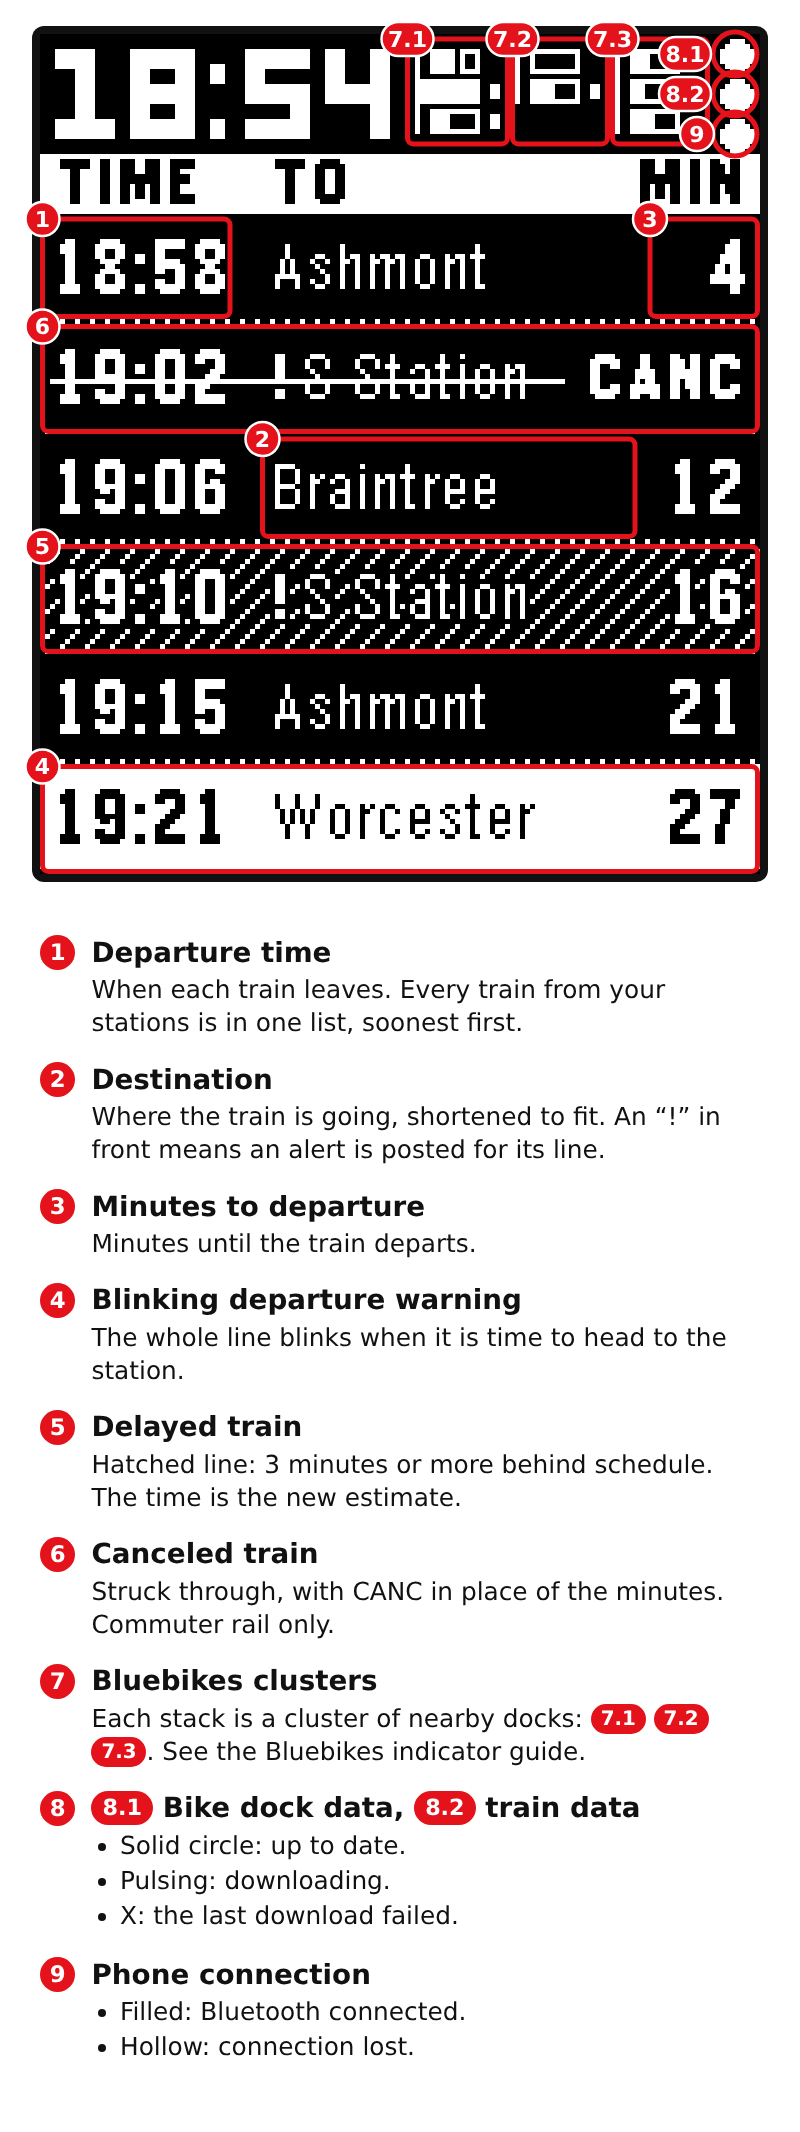
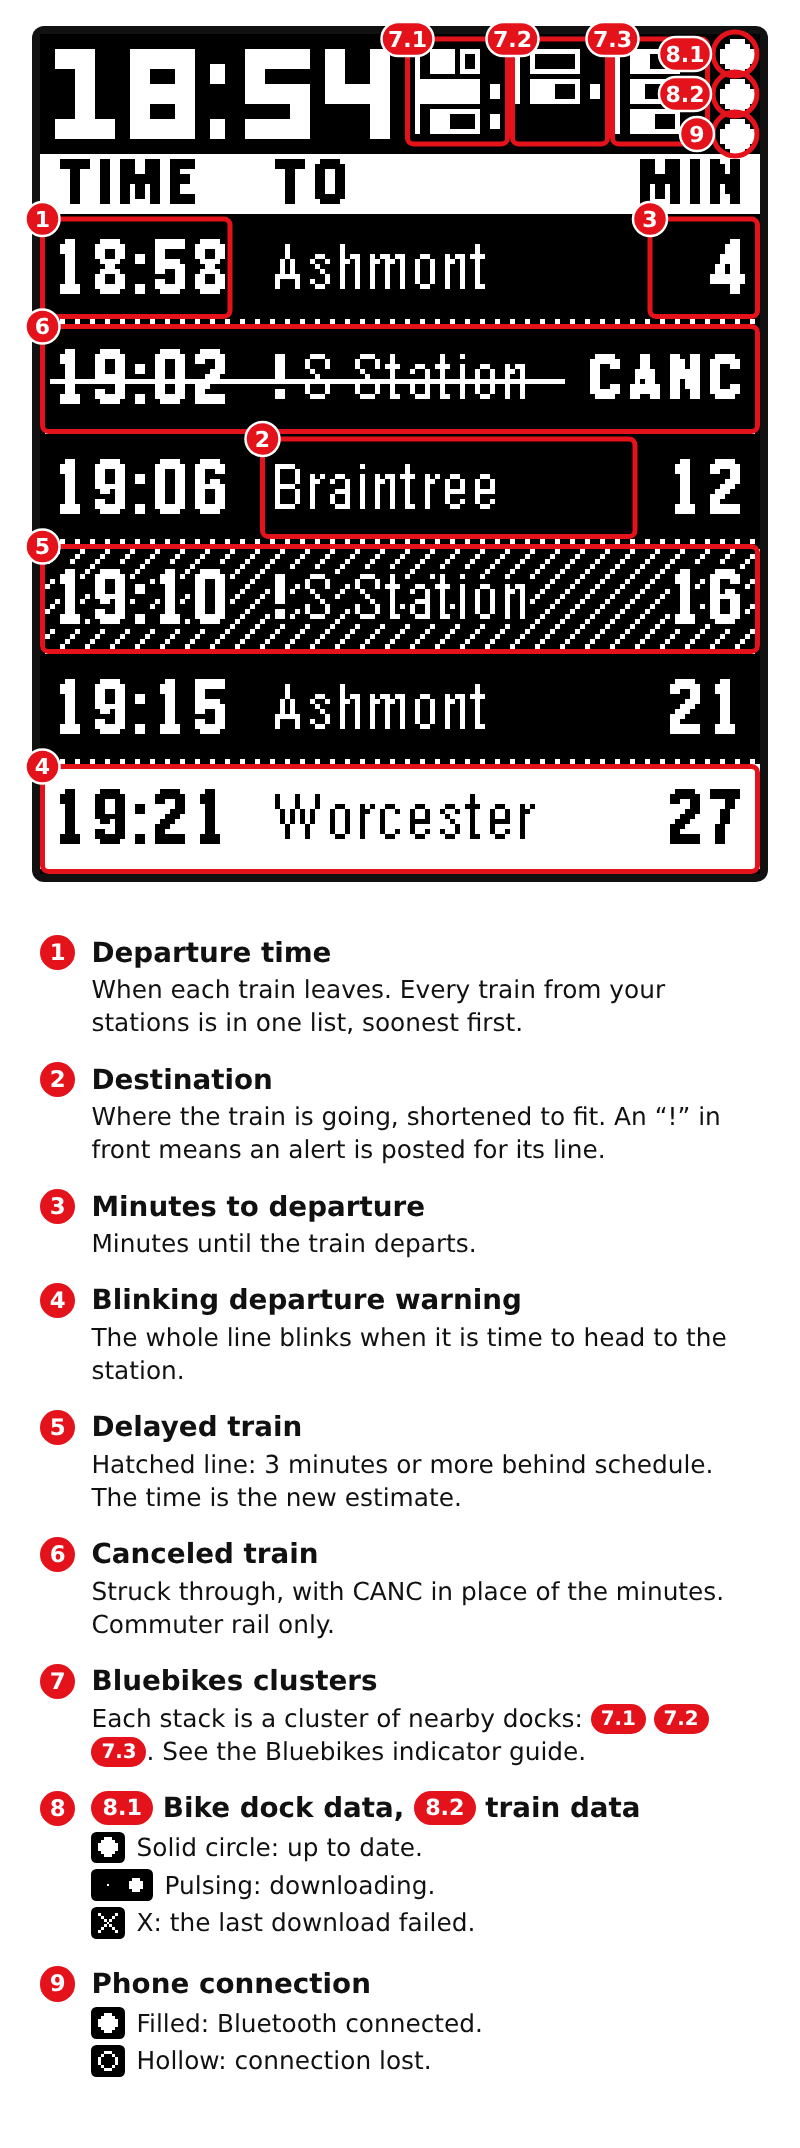
Guides: show each connection dot state as a small picture beside its meaning
Claude-Session: https://claude.ai/code/session_018kUttcRWv8pxFU9anVHVt8

diff --git a/docs/watch-guide.html b/docs/watch-guide.html
@@ -21,6 +21,9 @@ svg{position:absolute;left:0;top:0}
 .t b{display:block;font-size:22px;margin-bottom:3px}
 .t ul{display:inline-block;margin:2px 0 0;padding-left:1.15em;text-align:left}
 .t li{margin:1px 0}
+li.pic{list-style:none;display:flex;align-items:center;gap:.45em;margin-left:-1.15em}
+.ico{flex:none;display:inline-flex;gap:2px;background:#000;border-radius:.22em;padding:.12em .16em}
+.ico svg{position:static;display:block;width:1.05em;height:1.05em}
 .l{text-align:right}
 /* The narrow page fills the screen width up to 800px and scrolls. */
 .m{width:auto!important;max-width:800px;margin:0 auto;font-size:clamp(15px,3.1vw,25px);line-height:1.34}
@@ -36,6 +39,8 @@ svg{position:absolute;left:0;top:0}
 .m .bk .e:first-of-type{margin-top:.9em}
 .m .tile{flex:none;display:flex;align-items:center;justify-content:center;width:6.2em;height:4.3em;background:#000;border-radius:.4em}
 .m .tile svg{width:auto;height:auto;display:block}
+.m .ico svg{width:1.05em;height:1.05em}
+.m li.pic{margin:.18em 0 .18em -1.15em}
 .m section:last-child{padding-bottom:1.2em}
 .m ul{margin:.1em 0 0;padding-left:1.15em}.m li{margin:.08em 0}
 </style>
@@ -85,9 +90,9 @@ function bikes(key){
 }
 
 // Lines of a body that start with "- " are drawn as a bulleted list.
-var BIKE_DATA='- Solid circle: dock data is up to date.<br>- Pulsing: downloading (every minute).<br>- X: the last download failed.<br>- Hidden when no docks are set.';
-var TRAIN_DATA='- Solid circle: timetables are up to date.<br>- Pulsing: downloading (every 2 minutes).<br>- X: the last download failed.';
-var PHONE='- Filled: Bluetooth connection stable.<br>- Hollow: lost Bluetooth connection.';
+var BIKE_DATA='- [solid] Solid circle: dock data is up to date.<br>- [pulse] Pulsing: downloading (every minute).<br>- [x] X: the last download failed.<br>- Hidden when no docks are set.';
+var TRAIN_DATA='- [solid] Solid circle: timetables are up to date.<br>- [pulse] Pulsing: downloading (every 2 minutes).<br>- [x] X: the last download failed.';
+var PHONE='- [solid] Filled: Bluetooth connection stable.<br>- [hollow] Hollow: lost Bluetooth connection.';
 var GUIDES={
 line:{name:'Line by line',img:'watch-screen.png',y0:224,items:[
  {side:'l',top:1,title:'Bluebikes docks',body:'Each circle is a pie chart for one Bluebikes dock, chosen in the watchface settings. The solid slice is the share of dock slots holding a bike. Orbiting dots are available e-bikes, one dot each.',box:[26.5,-1.5,78,11]},
@@ -116,8 +121,8 @@ mobile:[
  {title:'Service alert',body:'An “!” means an alert is posted for this line. Its text scrolls across the header every minute.',marks:[{circ:[4,92.5,5.5],badge:[2,100.5]}]},
  {title:'End of service',body:'No more trains are scheduled for the rest of the service day.',marks:[{box:[52,104,143.5,123]}]},
  {title:'Bluebikes docks',body:'One shape for each dock. See the Bluebikes indicator guide.',marks:[{box:[1,-1.5,78,11]}]},
- {title:'{1} Bike dock data, {2} train data',body:'- Solid circle: up to date.<br>- Pulsing: downloading.<br>- X: the last download failed.',marks:[{circ:[115.5,6,5],badge:[110,15.5]},{circ:[126.5,6,5],badge:[124,15.5]}]},
- {title:'Phone connection',body:'- Filled: Bluetooth connected.<br>- Hollow: connection lost.',marks:[{circ:[137.5,6,5],badge:[139,15.5]}]}
+ {title:'{1} Bike dock data, {2} train data',body:'- [solid] Solid circle: up to date.<br>- [pulse] Pulsing: downloading.<br>- [x] X: the last download failed.',marks:[{circ:[115.5,6,5],badge:[110,15.5]},{circ:[126.5,6,5],badge:[124,15.5]}]},
+ {title:'Phone connection',body:'- [solid] Filled: Bluetooth connected.<br>- [hollow] Hollow: connection lost.',marks:[{circ:[137.5,6,5],badge:[139,15.5]}]}
 ]},
 board:{name:'Departure board',img:'screen-guide-board.png',y0:250,items:[
  {side:'l',top:1,title:'Bluebikes clusters',body:'Each stack is a cluster of nearby Bluebikes docks, chosen in the watchface settings, and each bar is one dock. A bar fills from the left with the share of dock slots holding a bike. A dot to the right of a bar means e-bikes are available.',box:[94.5,1,133.5,22]},
@@ -140,8 +145,8 @@ mobile:[
  {title:'Delayed train',body:'Hatched line: 3 minutes or more behind schedule. The time is the new estimate.',marks:[{box:[0.5,102.5,143.5,123.5]}]},
  {title:'Canceled train',body:'Struck through, with CANC in place of the minutes. Commuter rail only.',marks:[{box:[0.5,58.5,143.5,79.5]}]},
  {title:'Bluebikes clusters',body:'Each stack is a cluster of nearby docks: {1} {2} {3}. See the Bluebikes indicator guide.',marks:[{box:[73.5,1,93.5,22]},{box:[94.5,1,113.5,22]},{box:[114.5,1,133.5,22]}]},
- {title:'{1} Bike dock data, {2} train data',body:'- Solid circle: up to date.<br>- Pulsing: downloading.<br>- X: the last download failed.',marks:[{circ:[139,4,4.4]},{circ:[139,12,4.4]}]},
- {title:'Phone connection',body:'- Filled: Bluetooth connected.<br>- Hollow: connection lost.',marks:[{circ:[139,20,4.4]}]}
+ {title:'{1} Bike dock data, {2} train data',body:'- [solid] Solid circle: up to date.<br>- [pulse] Pulsing: downloading.<br>- [x] X: the last download failed.',marks:[{circ:[139,4,4.4]},{circ:[139,12,4.4]}]},
+ {title:'Phone connection',body:'- [solid] Filled: Bluetooth connected.<br>- [hollow] Hollow: connection lost.',marks:[{circ:[139,20,4.4]}]}
 ]},
 dial:{name:'Hour dial',img:'screen-guide-dial.png',y0:150,items:[
  {side:'l',title:'Bluebikes clusters',body:'Three corners each hold one cluster of nearby Bluebikes docks: cluster 1 top left, cluster 2 top right, cluster 3 bottom left. Each bar is one dock and fills from the left with the share of dock slots holding a bike.<br>- A solid bar touching the line is a full dock.<br>- A solid bar with one open cell has one free parking space.',box:[2.5,2.5,23.5,22.5]},
@@ -167,8 +172,8 @@ mobile:[
  {title:'Delayed train',body:'A hollow circle: 3 minutes or more behind schedule.',marks:[{circ:[92,138,6.5]}]},
  {title:'Canceled train',body:'A crossed circle. Commuter rail only.',marks:[{circ:[47.5,32.5,7]}]},
  {title:'Bluebikes clusters',body:'One cluster of nearby docks in each corner: {1} {2} {3}. See the Bluebikes indicator guide.',marks:[{box:[2.5,2.5,23.5,22.5]},{box:[120.5,2.5,141.5,22.5]},{box:[2.5,144.5,23.5,165.5]}]},
- {title:'{1} Bike dock data, {2} train data',body:'- Solid circle: up to date.<br>- Pulsing: downloading.<br>- X: the last download failed.',marks:[{circ:[136,144,4.4]},{circ:[136,152,4.4]}]},
- {title:'Phone connection',body:'- Filled: Bluetooth connected.<br>- Hollow: connection lost.',marks:[{circ:[136,160,4.4]}]}
+ {title:'{1} Bike dock data, {2} train data',body:'- [solid] Solid circle: up to date.<br>- [pulse] Pulsing: downloading.<br>- [x] X: the last download failed.',marks:[{circ:[136,144,4.4]},{circ:[136,152,4.4]}]},
+ {title:'Phone connection',body:'- [solid] Filled: Bluetooth connected.<br>- [hollow] Hollow: connection lost.',marks:[{circ:[136,160,4.4]}]}
 ]}
 };
 // The hash picks what is shown:
@@ -195,13 +200,24 @@ if(ALL||parts[1]==='m'){
   wide();
 }
 
+// The status dot in each state, as tiles in status-icons.png (cut from real
+// captures). [pulse] shows two frames of the pulse side by side.
+function icon(name){
+  var tiles={solid:[0],pulse:[1,2],x:[3],hollow:[4]};
+  return '<span class="ico">'+tiles[name].map(function(i){
+    return '<svg viewBox="'+i*9+' 0 9 9"><image href="status-icons.png" width="45" height="9" style="image-rendering:pixelated"/></svg>';
+  }).join('')+'</span>';
+}
 function bodyHtml(text){
   var out='',open=false;
   text.split('<br>').forEach(function(line,i){
     var li=line.indexOf('- ')===0;
     if(li&&!open){out+='<ul>';open=true;}
     if(!li&&open){out+='</ul>';open=false;}
-    out+=li?'<li>'+line.slice(2)+'</li>':(i&&!out.match(/<\/ul>$/)?'<br>':'')+line;
+    // A line that starts with a picture uses it in place of the bullet.
+    var pic=li&&/^- \[(\w+)\] /.exec(line);
+    if(pic) out+='<li class="pic">'+icon(pic[1])+'<span>'+line.slice(pic[0].length)+'</span></li>';
+    else out+=li?'<li>'+line.slice(2)+'</li>':(i&&!out.match(/<\/ul>$/)?'<br>':'')+line;
   });
   return out+(open?'</ul>':'');
 }
